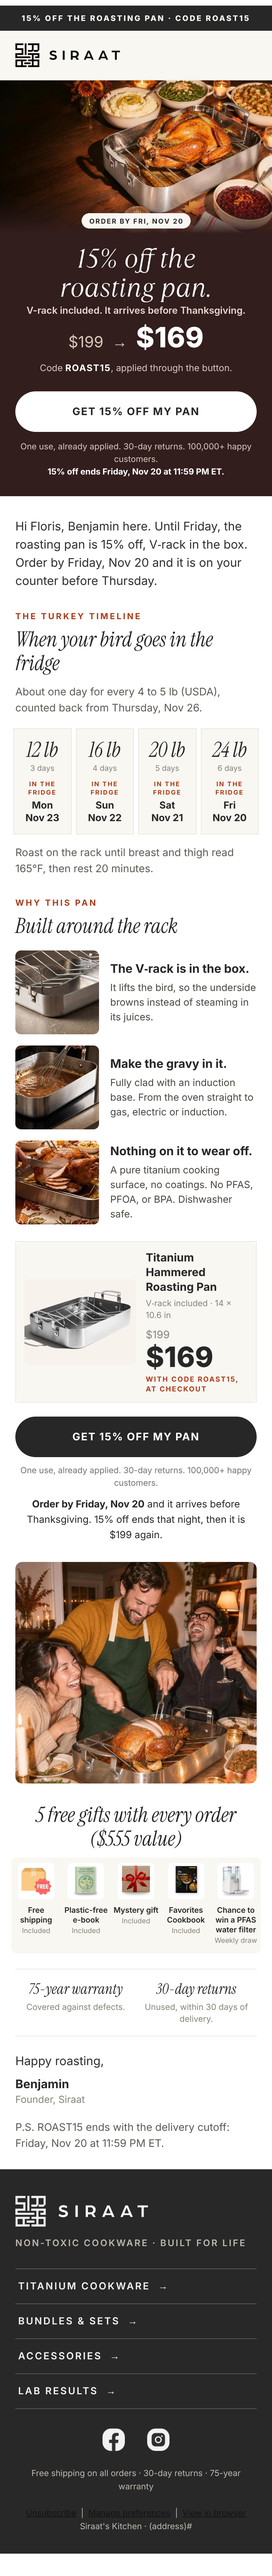
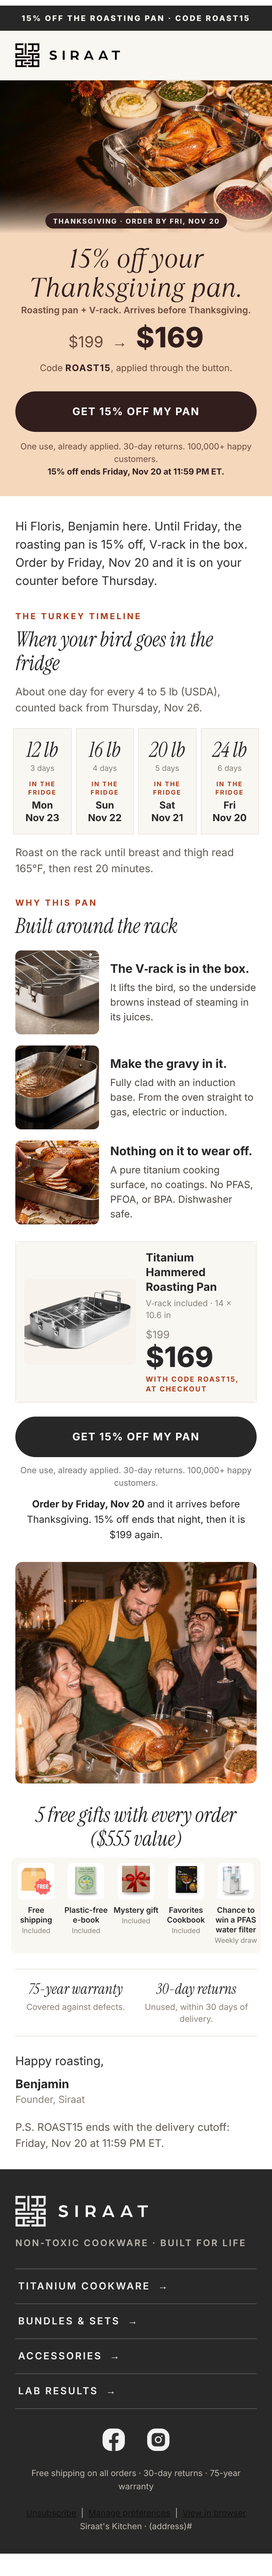
Thanksgiving Roast: zacht oranje offerblok en Thanksgiving prominent
Claude-Session: https://claude.ai/code/session_01HjCaDE95ohEXY6DPZTSH67

Changed region(s): [[0.0, 0.0624, 1.0, 0.2184]]

diff --git a/klaviyo/templates/v3/campaigns/thanksgiving-roast-1117/tg-us.html b/klaviyo/templates/v3/campaigns/thanksgiving-roast-1117/tg-us.html
@@ -254,7 +254,7 @@ a {
 <table bgcolor="#FFFFFF" border="0" cellpadding="0" cellspacing="0" role="presentation" style="background-color:#FFFFFF;" width="100%">
 <tr><td align="center" style="padding:8px 0 32px 0;">
 <table bgcolor="#FFFFFF" border="0" cellpadding="0" cellspacing="0" class="w" role="presentation" style="width:100%;max-width:600px;background:#FFFFFF;" width="600">
-<tr><td align="center" bgcolor="#272727" style="background-color:#272727;padding:11px 20px;font-family:Inter,Arial,Helvetica,sans-serif;font-size:11px;line-height:14px;letter-spacing:2px;font-weight:800;color:#F8F7F2;text-transform:uppercase;"><a href="https://siraatskitchen.com/discount/ROAST15?redirect=%2Fproducts%2Ftitanium-hammered-roasting-pan%3Futm_source%3Dklaviyo%26utm_medium%3Demail%26utm_campaign%3Dthanksgiving-roast-1117-us%26utm_content%3Dtopbar" style="color:#F8F7F2;text-decoration:none;">15% OFF THE ROASTING PAN &middot; CODE ROAST15</a></td></tr>
+<tr><td align="center" bgcolor="#272727" style="background-color:#272727;padding:11px 20px;font-family:Inter,Arial,Helvetica,sans-serif;font-size:11px;line-height:14px;letter-spacing:2px;font-weight:800;color:#F8F7F2;text-transform:uppercase;"><a href="https://siraatskitchen.com/discount/ROAST15?redirect=%2Fproducts%2Ftitanium-hammered-roasting-pan%3Futm_source%3Dklaviyo%26utm_medium%3Demail%26utm_campaign%3Dthanksgiving-roast-1117-us%26utm_content%3Dtopbar" style="color:#F8F7F2;text-decoration:none;">THANKSGIVING >15% OFF THE ROASTING PAN &middot; CODE ROAST15<middot; 15% OFF THE ROASTING PAN &middot; ROAST15</a></td></tr>
 <tr><td bgcolor="#F8F7F2" style="padding:18px 36px;background-color:#F8F7F2;border-bottom:1px solid #ECE7DD;" class="pad">
   <table role="presentation" width="100%" cellpadding="0" cellspacing="0" border="0"><tr>
     <td valign="middle"><a href="https://siraatskitchen.com?utm_source=klaviyo&amp;utm_medium=email&amp;utm_campaign=thanksgiving-roast-1117-us&amp;utm_content=nav-siraatskitchenhome"><img src="https://cdn.klaviyomail.com/company/TdtTzz/images/68a06000-e2d3-4858-86cb-92587411d958.png" width="150" alt="Siraat" style="display:block;width:150px;height:auto;border:0;"></a></td>
@@ -266,10 +266,10 @@ a {
   </tr></table>
 </td></tr>
 
-<tr><td align="center" bgcolor="#FFFFFF" style="background-color:#FFFFFF;padding:0;"><a href="https://siraatskitchen.com/discount/ROAST15?redirect=%2Fproducts%2Ftitanium-hammered-roasting-pan%3Futm_source%3Dklaviyo%26utm_medium%3Demail%26utm_campaign%3Dthanksgiving-roast-1117-us%26utm_content%3Dhero" style="display:block;border:0;text-decoration:none;"><img src="https://cdn.klaviyomail.com/company/TdtTzz/images/c33a48a5-c3b3-4035-8a8f-768413a5311a.jpeg" width="600" alt="Order by Fri, Nov 20. 15% off the roasting pan. V-rack included. It arrives before Thanksgiving. A golden turkey on the V-rack in the Siraat Titanium Hammered Roasting Pan." style="display:block;width:100%;max-width:600px;height:auto;border:0;border-radius:0px;"></a></td></tr>
-<tr><td align="center" bgcolor="#321E1D" class="pad" style="background-color:#321E1D;padding:2px 40px 18px 40px;text-align:center;"><div style="font-family:Inter,Arial,Helvetica,sans-serif;font-size:22px;line-height:44px;color:#D9C6BC;">$199 &nbsp;&rarr;&nbsp; <span class="now" style="font-family:Inter,Arial,Helvetica,sans-serif;font-size:40px;line-height:44px;font-weight:800;color:#FFFFFF;">$169</span></div><div style="font-family:Inter,Arial,Helvetica,sans-serif;font-size:13px;line-height:19px;color:#D9C6BC;padding-top:6px;">Code <b style="color:#FFFFFF;letter-spacing:1px;">ROAST15</b>, applied through the button.</div></td></tr>
-<tr><td align="center" bgcolor="#321E1D" class="pad" style="background-color:#321E1D;padding:6px 40px 0 40px;"><table border="0" cellpadding="0" cellspacing="0" role="presentation" width="400" style="width:100%;max-width:400px;margin:0 auto;"><tr><td align="center" bgcolor="#FFFFFF" style="background-color:#FFFFFF;border-radius:30px;"><a href="https://siraatskitchen.com/discount/ROAST15?redirect=%2Fproducts%2Ftitanium-hammered-roasting-pan%3Futm_source%3Dklaviyo%26utm_medium%3Demail%26utm_campaign%3Dthanksgiving-roast-1117-us%26utm_content%3Dcta1" style="display:block;padding:20px 18px;font-family:Inter,Arial,Helvetica,sans-serif;font-size:15px;line-height:18px;font-weight:700;letter-spacing:1.2px;color:#272727;text-decoration:none;text-transform:uppercase;">Get 15% off my pan</a></td></tr></table></td></tr>
-<tr><td align="center" bgcolor="#321E1D" class="pad" style="background-color:#321E1D;padding:12px 40px 26px 40px;text-align:center;"><div style="font-family:Inter,Arial,Helvetica,sans-serif;font-size:12px;line-height:18px;color:#D9C6BC;">One use, already applied. 30-day returns. 100,000+ happy customers.<br><b style="color:#FFFFFF;">15% off ends Friday, Nov 20 at 11:59 PM ET.</b></div></td></tr>
+<tr><td align="center" bgcolor="#FFFFFF" style="background-color:#FFFFFF;padding:0;"><a href="https://siraatskitchen.com/discount/ROAST15?redirect=%2Fproducts%2Ftitanium-hammered-roasting-pan%3Futm_source%3Dklaviyo%26utm_medium%3Demail%26utm_campaign%3Dthanksgiving-roast-1117-us%26utm_content%3Dhero" style="display:block;border:0;text-decoration:none;"><img src="https://cdn.klaviyomail.com/company/TdtTzz/images/fa194f72-c8bb-4a1a-b975-df218a83e0ae.jpeg" width="600" alt="Thanksgiving. Order by Fri, Nov 20. 15% off your Thanksgiving pan. Roasting pan plus V-rack. Arrives before Thanksgiving. A golden turkey on the V-rack in the Siraat Titanium Hammered Roasting Pan." style="display:block;width:100%;max-width:600px;height:auto;border:0;border-radius:0px;"></a></td></tr>
+<tr><td align="center" bgcolor="#F5D7BC" class="pad" style="background-color:#F5D7BC;padding:2px 40px 18px 40px;text-align:center;"><div style="font-family:Inter,Arial,Helvetica,sans-serif;font-size:22px;line-height:44px;color:#6B4A3A;">$199 &nbsp;&rarr;&nbsp; <span class="now" style="font-family:Inter,Arial,Helvetica,sans-serif;font-size:40px;line-height:44px;font-weight:800;color:#321E1D;">$169</span></div><div style="font-family:Inter,Arial,Helvetica,sans-serif;font-size:13px;line-height:19px;color:#6B4A3A;padding-top:6px;">Code <b style="color:#321E1D;letter-spacing:1px;">ROAST15</b>, applied through the button.</div></td></tr>
+<tr><td align="center" bgcolor="#F5D7BC" class="pad" style="background-color:#F5D7BC;padding:6px 40px 0 40px;"><table border="0" cellpadding="0" cellspacing="0" role="presentation" width="400" style="width:100%;max-width:400px;margin:0 auto;"><tr><td align="center" bgcolor="#FFFFFF" style="background-color:#321E1D;border-radius:30px;"><a href="https://siraatskitchen.com/discount/ROAST15?redirect=%2Fproducts%2Ftitanium-hammered-roasting-pan%3Futm_source%3Dklaviyo%26utm_medium%3Demail%26utm_campaign%3Dthanksgiving-roast-1117-us%26utm_content%3Dcta1" style="display:block;padding:20px 18px;font-family:Inter,Arial,Helvetica,sans-serif;font-size:15px;line-height:18px;font-weight:700;letter-spacing:1.2px;color:#FFFFFF;text-decoration:none;text-transform:uppercase;">Get 15% off my pan</a></td></tr></table></td></tr>
+<tr><td align="center" bgcolor="#F5D7BC" class="pad" style="background-color:#F5D7BC;padding:12px 40px 26px 40px;text-align:center;"><div style="font-family:Inter,Arial,Helvetica,sans-serif;font-size:12px;line-height:18px;color:#6B4A3A;">One use, already applied. 30-day returns. 100,000+ happy customers.<br><b style="color:#321E1D;">15% off ends Friday, Nov 20 at 11:59 PM ET.</b></div></td></tr>
 <tr><td align="left" bgcolor="#FFFFFF" class="pad" style="background-color:#FFFFFF;padding:30px 40px 0 40px;text-align:left;"><div style="font-family:Inter,Arial,Helvetica,sans-serif;font-size:17px;line-height:26px;color:#2E2E2E;font-weight:400;">Hi {{ first_name|default:'there' }}, Benjamin here. Until Friday, the roasting pan is 15% off, V&#8209;rack in the box. Order by Friday, Nov 20 and it is on your counter before Thursday.</div></td></tr>
 <tr><td align="left" bgcolor="#FFFFFF" class="pad" style="background-color:#FFFFFF;padding:30px 40px 4px 40px;"><div style="font-family:Inter,Arial,Helvetica,sans-serif;font-size:12px;line-height:16px;letter-spacing:2.4px;font-weight:700;color:#AC3B19;">THE TURKEY TIMELINE</div><div class="h2" style="font-family:'Instrument Serif','Times New Roman',Times,serif;font-style:italic;font-weight:400;font-size:34px;line-height:38px;color:#272727;padding-top:8px;">When your bird goes in the fridge</div></td></tr>
 <tr><td align="left" bgcolor="#FFFFFF" class="pad" style="background-color:#FFFFFF;padding:8px 40px 0 40px;text-align:left;"><div style="font-family:Inter,Arial,Helvetica,sans-serif;font-size:15px;line-height:23px;color:#5E5A54;font-weight:400;">About one day for every 4 to 5 lb (USDA), counted back from Thursday, Nov&nbsp;26.</div></td></tr>

diff --git a/klaviyo/templates/v3/campaigns/thanksgiving-roast-1117/tg-us-preview.html b/klaviyo/templates/v3/campaigns/thanksgiving-roast-1117/tg-us-preview.html
@@ -254,7 +254,7 @@ a {
 <table bgcolor="#FFFFFF" border="0" cellpadding="0" cellspacing="0" role="presentation" style="background-color:#FFFFFF;" width="100%">
 <tr><td align="center" style="padding:8px 0 32px 0;">
 <table bgcolor="#FFFFFF" border="0" cellpadding="0" cellspacing="0" class="w" role="presentation" style="width:100%;max-width:600px;background:#FFFFFF;" width="600">
-<tr><td align="center" bgcolor="#272727" style="background-color:#272727;padding:11px 20px;font-family:Inter,Arial,Helvetica,sans-serif;font-size:11px;line-height:14px;letter-spacing:2px;font-weight:800;color:#F8F7F2;text-transform:uppercase;"><a href="https://siraatskitchen.com/discount/ROAST15?redirect=%2Fproducts%2Ftitanium-hammered-roasting-pan%3Futm_source%3Dklaviyo%26utm_medium%3Demail%26utm_campaign%3Dthanksgiving-roast-1117-us%26utm_content%3Dtopbar" style="color:#F8F7F2;text-decoration:none;">15% OFF THE ROASTING PAN &middot; CODE ROAST15</a></td></tr>
+<tr><td align="center" bgcolor="#272727" style="background-color:#272727;padding:11px 20px;font-family:Inter,Arial,Helvetica,sans-serif;font-size:11px;line-height:14px;letter-spacing:2px;font-weight:800;color:#F8F7F2;text-transform:uppercase;"><a href="https://siraatskitchen.com/discount/ROAST15?redirect=%2Fproducts%2Ftitanium-hammered-roasting-pan%3Futm_source%3Dklaviyo%26utm_medium%3Demail%26utm_campaign%3Dthanksgiving-roast-1117-us%26utm_content%3Dtopbar" style="color:#F8F7F2;text-decoration:none;">THANKSGIVING >15% OFF THE ROASTING PAN &middot; CODE ROAST15<middot; 15% OFF THE ROASTING PAN &middot; ROAST15</a></td></tr>
 <tr><td bgcolor="#F8F7F2" style="padding:18px 36px;background-color:#F8F7F2;border-bottom:1px solid #ECE7DD;" class="pad">
   <table role="presentation" width="100%" cellpadding="0" cellspacing="0" border="0"><tr>
     <td valign="middle"><a href="https://siraatskitchen.com?utm_source=klaviyo&amp;utm_medium=email&amp;utm_campaign=thanksgiving-roast-1117-us&amp;utm_content=nav-siraatskitchenhome"><img src="https://cdn.klaviyomail.com/company/TdtTzz/images/68a06000-e2d3-4858-86cb-92587411d958.png" width="150" alt="Siraat" style="display:block;width:150px;height:auto;border:0;"></a></td>
@@ -266,10 +266,10 @@ a {
   </tr></table>
 </td></tr>
 
-<tr><td align="center" bgcolor="#FFFFFF" style="background-color:#FFFFFF;padding:0;"><a href="https://siraatskitchen.com/discount/ROAST15?redirect=%2Fproducts%2Ftitanium-hammered-roasting-pan%3Futm_source%3Dklaviyo%26utm_medium%3Demail%26utm_campaign%3Dthanksgiving-roast-1117-us%26utm_content%3Dhero" style="display:block;border:0;text-decoration:none;"><img src="https://cdn.klaviyomail.com/company/TdtTzz/images/c33a48a5-c3b3-4035-8a8f-768413a5311a.jpeg" width="600" alt="Order by Fri, Nov 20. 15% off the roasting pan. V-rack included. It arrives before Thanksgiving. A golden turkey on the V-rack in the Siraat Titanium Hammered Roasting Pan." style="display:block;width:100%;max-width:600px;height:auto;border:0;border-radius:0px;"></a></td></tr>
-<tr><td align="center" bgcolor="#321E1D" class="pad" style="background-color:#321E1D;padding:2px 40px 18px 40px;text-align:center;"><div style="font-family:Inter,Arial,Helvetica,sans-serif;font-size:22px;line-height:44px;color:#D9C6BC;">$199 &nbsp;&rarr;&nbsp; <span class="now" style="font-family:Inter,Arial,Helvetica,sans-serif;font-size:40px;line-height:44px;font-weight:800;color:#FFFFFF;">$169</span></div><div style="font-family:Inter,Arial,Helvetica,sans-serif;font-size:13px;line-height:19px;color:#D9C6BC;padding-top:6px;">Code <b style="color:#FFFFFF;letter-spacing:1px;">ROAST15</b>, applied through the button.</div></td></tr>
-<tr><td align="center" bgcolor="#321E1D" class="pad" style="background-color:#321E1D;padding:6px 40px 0 40px;"><table border="0" cellpadding="0" cellspacing="0" role="presentation" width="400" style="width:100%;max-width:400px;margin:0 auto;"><tr><td align="center" bgcolor="#FFFFFF" style="background-color:#FFFFFF;border-radius:30px;"><a href="https://siraatskitchen.com/discount/ROAST15?redirect=%2Fproducts%2Ftitanium-hammered-roasting-pan%3Futm_source%3Dklaviyo%26utm_medium%3Demail%26utm_campaign%3Dthanksgiving-roast-1117-us%26utm_content%3Dcta1" style="display:block;padding:20px 18px;font-family:Inter,Arial,Helvetica,sans-serif;font-size:15px;line-height:18px;font-weight:700;letter-spacing:1.2px;color:#272727;text-decoration:none;text-transform:uppercase;">Get 15% off my pan</a></td></tr></table></td></tr>
-<tr><td align="center" bgcolor="#321E1D" class="pad" style="background-color:#321E1D;padding:12px 40px 26px 40px;text-align:center;"><div style="font-family:Inter,Arial,Helvetica,sans-serif;font-size:12px;line-height:18px;color:#D9C6BC;">One use, already applied. 30-day returns. 100,000+ happy customers.<br><b style="color:#FFFFFF;">15% off ends Friday, Nov 20 at 11:59 PM ET.</b></div></td></tr>
+<tr><td align="center" bgcolor="#FFFFFF" style="background-color:#FFFFFF;padding:0;"><a href="https://siraatskitchen.com/discount/ROAST15?redirect=%2Fproducts%2Ftitanium-hammered-roasting-pan%3Futm_source%3Dklaviyo%26utm_medium%3Demail%26utm_campaign%3Dthanksgiving-roast-1117-us%26utm_content%3Dhero" style="display:block;border:0;text-decoration:none;"><img src="https://cdn.klaviyomail.com/company/TdtTzz/images/fa194f72-c8bb-4a1a-b975-df218a83e0ae.jpeg" width="600" alt="Thanksgiving. Order by Fri, Nov 20. 15% off your Thanksgiving pan. Roasting pan plus V-rack. Arrives before Thanksgiving. A golden turkey on the V-rack in the Siraat Titanium Hammered Roasting Pan." style="display:block;width:100%;max-width:600px;height:auto;border:0;border-radius:0px;"></a></td></tr>
+<tr><td align="center" bgcolor="#F5D7BC" class="pad" style="background-color:#F5D7BC;padding:2px 40px 18px 40px;text-align:center;"><div style="font-family:Inter,Arial,Helvetica,sans-serif;font-size:22px;line-height:44px;color:#6B4A3A;">$199 &nbsp;&rarr;&nbsp; <span class="now" style="font-family:Inter,Arial,Helvetica,sans-serif;font-size:40px;line-height:44px;font-weight:800;color:#321E1D;">$169</span></div><div style="font-family:Inter,Arial,Helvetica,sans-serif;font-size:13px;line-height:19px;color:#6B4A3A;padding-top:6px;">Code <b style="color:#321E1D;letter-spacing:1px;">ROAST15</b>, applied through the button.</div></td></tr>
+<tr><td align="center" bgcolor="#F5D7BC" class="pad" style="background-color:#F5D7BC;padding:6px 40px 0 40px;"><table border="0" cellpadding="0" cellspacing="0" role="presentation" width="400" style="width:100%;max-width:400px;margin:0 auto;"><tr><td align="center" bgcolor="#FFFFFF" style="background-color:#321E1D;border-radius:30px;"><a href="https://siraatskitchen.com/discount/ROAST15?redirect=%2Fproducts%2Ftitanium-hammered-roasting-pan%3Futm_source%3Dklaviyo%26utm_medium%3Demail%26utm_campaign%3Dthanksgiving-roast-1117-us%26utm_content%3Dcta1" style="display:block;padding:20px 18px;font-family:Inter,Arial,Helvetica,sans-serif;font-size:15px;line-height:18px;font-weight:700;letter-spacing:1.2px;color:#FFFFFF;text-decoration:none;text-transform:uppercase;">Get 15% off my pan</a></td></tr></table></td></tr>
+<tr><td align="center" bgcolor="#F5D7BC" class="pad" style="background-color:#F5D7BC;padding:12px 40px 26px 40px;text-align:center;"><div style="font-family:Inter,Arial,Helvetica,sans-serif;font-size:12px;line-height:18px;color:#6B4A3A;">One use, already applied. 30-day returns. 100,000+ happy customers.<br><b style="color:#321E1D;">15% off ends Friday, Nov 20 at 11:59 PM ET.</b></div></td></tr>
 <tr><td align="left" bgcolor="#FFFFFF" class="pad" style="background-color:#FFFFFF;padding:30px 40px 0 40px;text-align:left;"><div style="font-family:Inter,Arial,Helvetica,sans-serif;font-size:17px;line-height:26px;color:#2E2E2E;font-weight:400;">Hi Floris, Benjamin here. Until Friday, the roasting pan is 15% off, V&#8209;rack in the box. Order by Friday, Nov 20 and it is on your counter before Thursday.</div></td></tr>
 <tr><td align="left" bgcolor="#FFFFFF" class="pad" style="background-color:#FFFFFF;padding:30px 40px 4px 40px;"><div style="font-family:Inter,Arial,Helvetica,sans-serif;font-size:12px;line-height:16px;letter-spacing:2.4px;font-weight:700;color:#AC3B19;">THE TURKEY TIMELINE</div><div class="h2" style="font-family:'Instrument Serif','Times New Roman',Times,serif;font-style:italic;font-weight:400;font-size:34px;line-height:38px;color:#272727;padding-top:8px;">When your bird goes in the fridge</div></td></tr>
 <tr><td align="left" bgcolor="#FFFFFF" class="pad" style="background-color:#FFFFFF;padding:8px 40px 0 40px;text-align:left;"><div style="font-family:Inter,Arial,Helvetica,sans-serif;font-size:15px;line-height:23px;color:#5E5A54;font-weight:400;">About one day for every 4 to 5 lb (USDA), counted back from Thursday, Nov&nbsp;26.</div></td></tr>

diff --git a/LOG.md b/LOG.md
@@ -539,3 +539,4 @@ Nieuwste bovenaan. Elke regel: datum, wat er gedaan is, wat het opleverde of wat
 - 2026-11-16: Thanksgiving Roast US: sfeerfoto (aansnijden) kleiner op verzoek Floris: bijgesneden naar 1000x917, 520 px breed met marge en afgeronde hoeken. Template UNLwYu bijgewerkt (campagne 01M7JGEYGP1FGC4P968R7QJMN8 blijft draft). Hoogte nu desktop 3.719 px, mobiel 3.589 px.
 - 2026-11-16: Thanksgiving Roast US v3 (Floris): tijdelijk 15% op de Roasting Pan. Shopify-code ROAST15 aangemaakt (DiscountCodeNode 2370676097364, discountCodeBasicCreate zoals LUCKY15): 15% alleen Titanium Hammered Roasting Pan, alle klanten, 1x per klant, combineerbaar met product- en verzendkortingen, geldig 16 nov 16:37 UTC tot 2026-11-21T04:59:00Z (vr 20 nov 23:59 ET), status ACTIVE. Prijs $199 naar $169.15 (15% van $199,00 is precies $29,85, Shopify rekent $169.15). Alle 15 links via /discount/ROAST15?redirect=<URL-encoded PDP + UTM>, unieke utm_content per link, getest: 302 naar PDP met discount_code-cookie ROAST15. Mail herbouwd rond het aanbod: nieuwe hero tg3-hero.jpg (zelfde foto, kop '15% off the roasting pan.', pill 'Order by Fri, Nov 20', subregel 'V-rack included. It arrives before Thanksgiving.'), prijsblok $199 → $169.15 met code als tekst, urgentie '15% off ends Friday, Nov 20 at 11:59 PM ET.', knoppen 'Get 15% off my pan', friction 'One use, already applied...', productkaart met $169.15 (geen doorhaling), rest (tegels, rek-blok, lifestyle-uitsnede, 5 gifts, 75 jaar/30 dagen, Benjamin, header/footer) behouden. build.py bijgewerkt (ook life-crop). Onderwerp '15% off the roasting pan, before Thanksgiving', preview 'Code ROAST15 takes it to $169.15, V-rack included. Order by Friday, Nov 20 and it arrives in time.' Template UNLwYu gepatcht en via campaign-message bevestigd, campagne 01M7JGEYGP1FGC4P968R7QJMN8 blijft draft, geen testmail. Render desktop 3.762 px, mobiel 3.686 px, geen overloop, 0 kapotte beelden, 0 gedachtestreepjes. Figma 301-89 bijgewerkt (slices en infokaart).
 - 2026-11-16: ROAST15 omgezet van 15% naar vast $30 korting (1x per order, alleen roasting pan, eindigt nog steeds vr 20 nov 23:59 ET) zodat de prijs precies $169 is (15,08%, '15% off' blijft kloppen). Mail, preview-tekst en template UNLwYu op $169; campagne blijft draft.
+- 2026-11-16: Thanksgiving Roast: offerblok zacht oranje (#F5D7BC, donkere tekst, donkere knop) op verzoek Floris; hero opnieuw (tg4-hero, script scratchpad/tg3/mkhero4.py) met 'Thanksgiving · Order by Fri, Nov 20' en kop '15% off your Thanksgiving pan.'; topbalk 'Thanksgiving · 15% off the roasting pan · ROAST15'. Template UNLwYu bijgewerkt, campagne draft. Let op: _tools/build.py nog op de oude kleuren.
